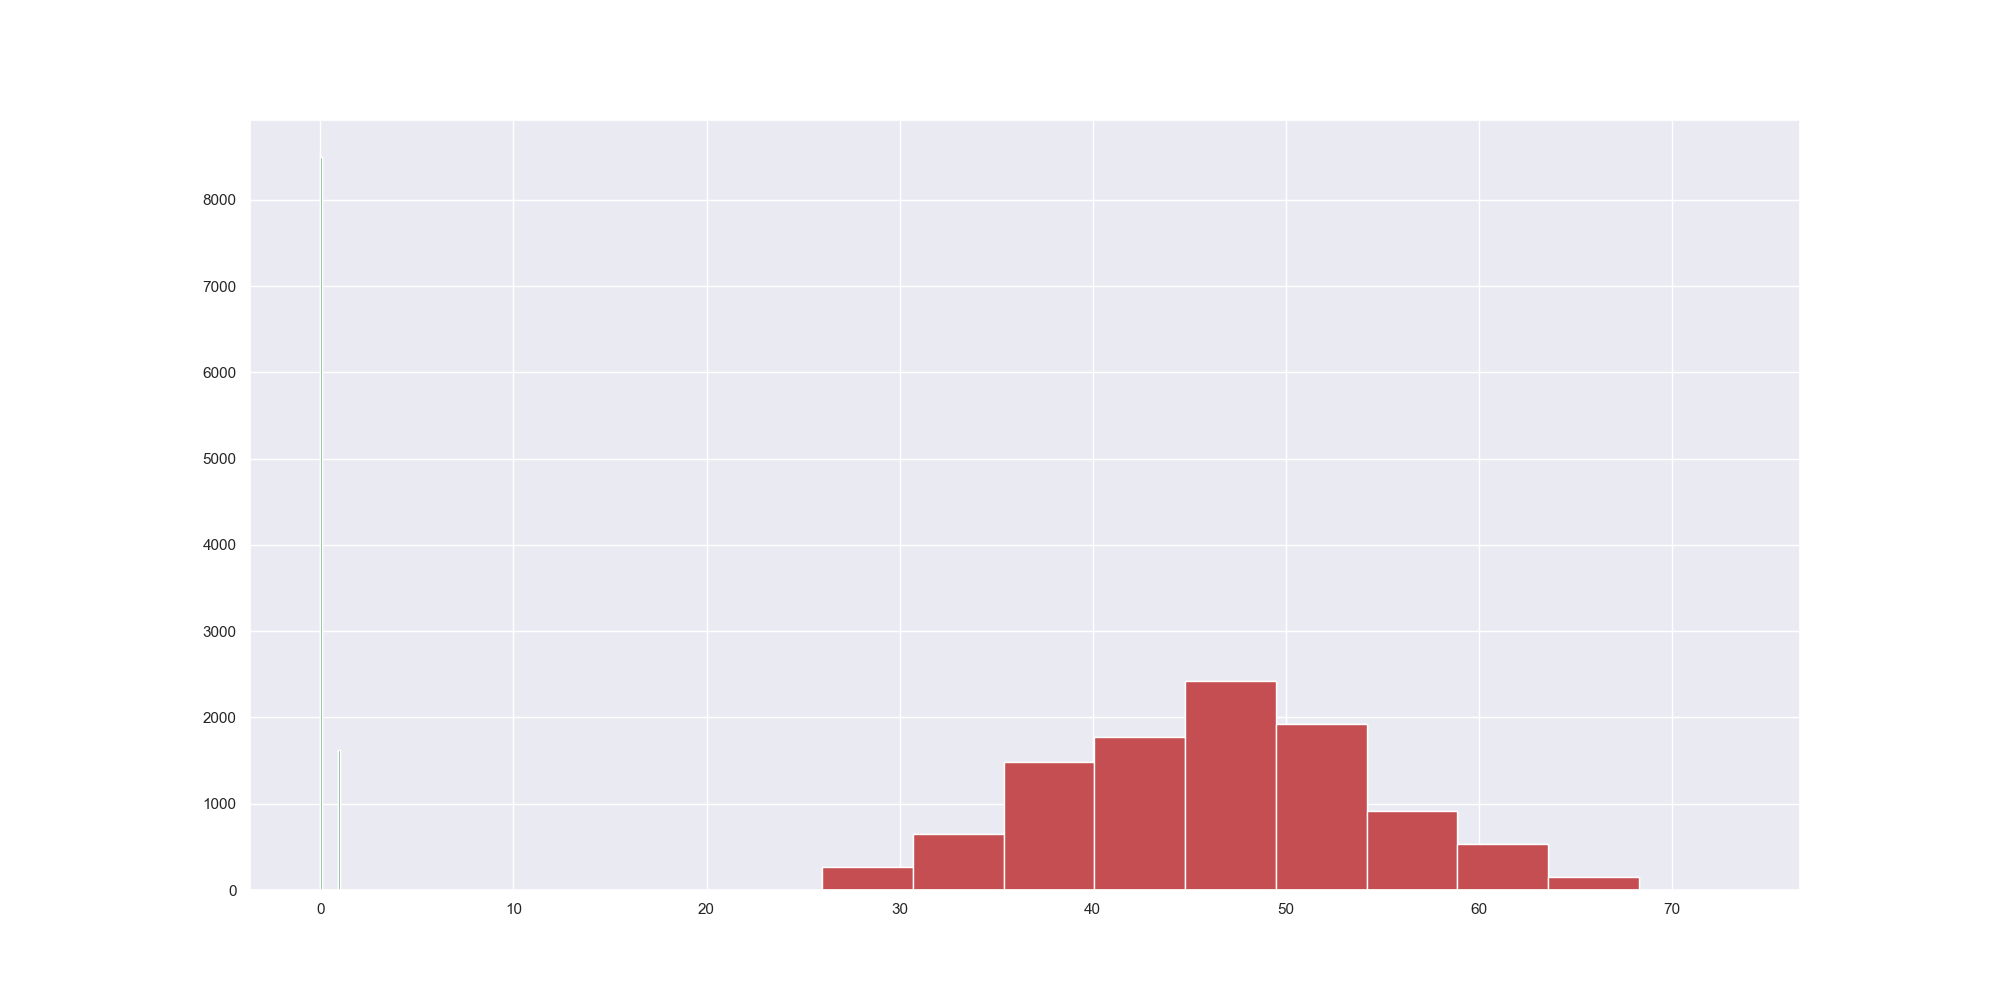
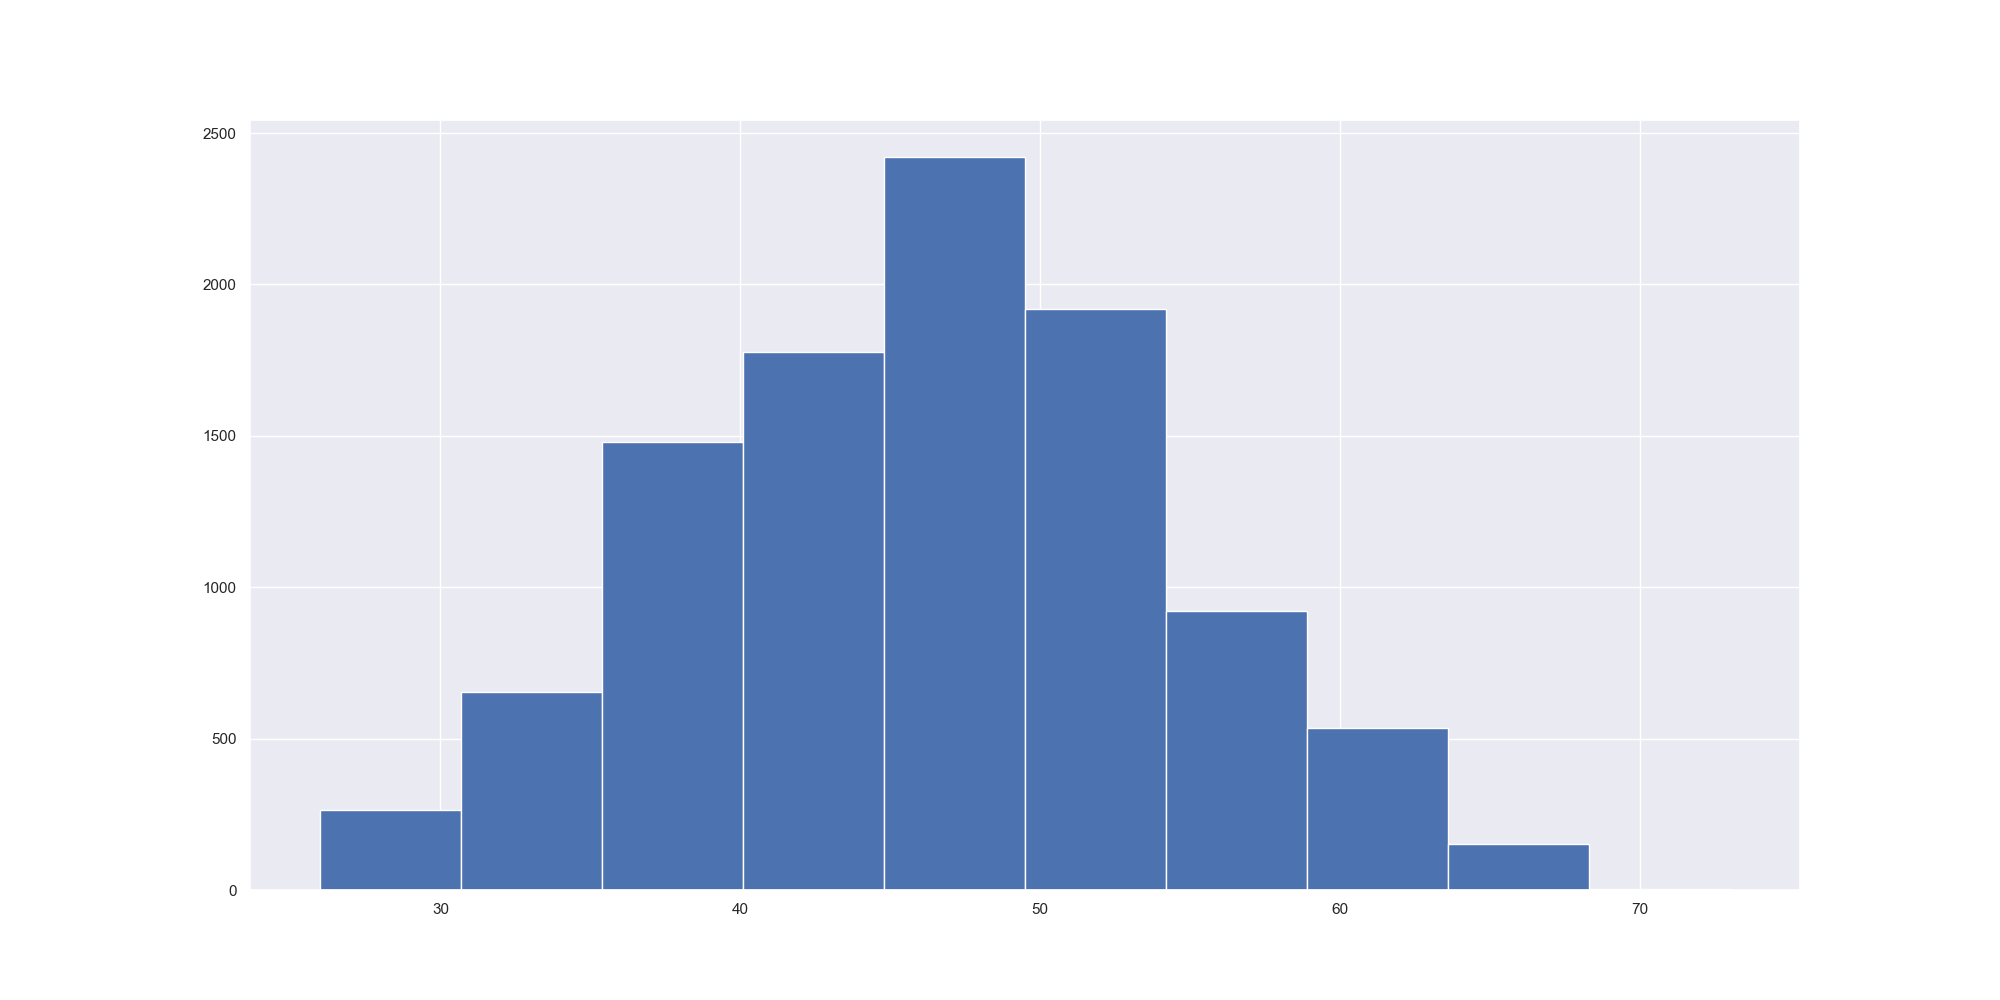
feat: fixed plot overlap issue; added timestamp to logfile.

diff --git a/churn_library.py b/churn_library.py
@@ -14,8 +14,8 @@ Date: 10.12.2022
 # import libraries
 import os
 import logging
+import time
 import seaborn as sns
-from sklearn import metrics
 from sklearn.metrics import classification_report, plot_roc_curve
 from sklearn.model_selection import GridSearchCV
 from sklearn.ensemble import RandomForestClassifier
@@ -33,7 +33,7 @@ sns.set()
 
 
 logging.basicConfig(
-    filename='./logs/churn_library.log',
+    filename=f"./logs/churn_library_{time.strftime('%b_%d_%Y_%H_%M_%S')}.log",
     level=logging.INFO,
     filemode='w',
     format='%(name)s - %(levelname)s - %(message)s'
@@ -108,6 +108,7 @@ def generate_hist_plot(column, pth):
     column.hist()
     # save churn hist plot in ./images/eda
     plt.savefig(pth)
+    plt.close()
 
 
 def perform_eda(df):
@@ -140,12 +141,14 @@ def perform_eda(df):
     plt.figure('Figure 5', figsize=(10, 8))
     df['Marital_Status'].value_counts('normalize').plot(kind='bar')
     plt.savefig('./images/eda/marital_status_barchart.png')
+    plt.close()
 
     # Show distributions of 'Total_Trans_Ct' and add a smooth curve obtained
     # using a kernel density estimate
     plt.figure('Figure 6', figsize=(10, 8))
     sns.histplot(df['Total_Trans_Ct'], stat='density', kde=True)
     plt.savefig('./images/eda/total_trans_ct_histplot.png')
+    plt.close()
 
     # generate heatmap correlation plot
     plt.figure('Figure 7', figsize=(10, 8))
@@ -156,6 +159,7 @@ def perform_eda(df):
         cmap='Dark2_r',
         linewidths=2)
     plt.savefig('./images/eda/correlation_plot.png')
+    plt.close()
 
 
 def encoder_helper(df, category_lst, response):
@@ -261,6 +265,7 @@ def classification_report_image(y_train,
     returns:
         - None
     '''
+    plt.figure('Figure 16')
     plt.rc('figure', figsize=(10, 8))
     # plt.text(0.01, 0.05, str(model.summary()), {'fontsize': 12}) old approach
     plt.text(0.01, 1.25, str('Random Forest Train'), {
@@ -274,7 +279,9 @@ def classification_report_image(y_train,
     plt.axis('off')
     # save plot
     plt.savefig(f'{output_pth}random_forrest_classification_report.png')
+    plt.close()
 
+    plt.figure('Figure 16')
     plt.rc('figure', figsize=(10, 8))
     plt.text(0.01, 1.25, str('Logistic Regression Train'),
              {'fontsize': 10}, fontproperties='monospace')
@@ -287,6 +294,7 @@ def classification_report_image(y_train,
     plt.axis('off')
     # save plot
     plt.savefig(f'{output_pth}logistic_regression_classification_report.png')
+    plt.close()
 
 
 def feature_importance_plot(model, X_data, output_pth):
@@ -308,6 +316,7 @@ def feature_importance_plot(model, X_data, output_pth):
     shap.summary_plot(shap_values, X_data, plot_type="bar", show=False)
     # save plot
     plt.savefig(f'{output_pth}shap_summary.png')
+    plt.close()
 
     # Calculate feature importances
     importances = model.feature_importances_
@@ -333,6 +342,7 @@ def feature_importance_plot(model, X_data, output_pth):
 
     # save plot
     plt.savefig(f'{output_pth}feature_importance.png')
+    plt.close()
 
 
 def train_models(X_train, X_test, y_train, y_test):
@@ -375,12 +385,13 @@ def train_models(X_train, X_test, y_train, y_test):
     # plot for AUC
     # store roc curve with score
     lrc_plot = plot_roc_curve(lrc, X_test, y_test)
-    plt.figure('Figure 3', figsize=(15, 8))
+    plt.figure('Figure 90', figsize=(15, 8))
     axis = plt.gca()
     _ = plot_roc_curve(cv_rfc.best_estimator_,
                        X_test, y_test, ax=axis, alpha=0.8)
     lrc_plot.plot(ax=axis, alpha=0.8)
     plt.savefig('./images/results/roc_curve_plot.png')
+    plt.close()
 
     # save best model
     joblib.dump(cv_rfc.best_estimator_, './models/rfc_model.pkl')

diff --git a/churn_script_logging_and_tests.py b/churn_script_logging_and_tests.py
@@ -12,12 +12,13 @@ Date: 10.12.2022
 
 import os
 import logging
+import time
 import pandas as pd
 import churn_library as cls
 
 
 logging.basicConfig(
-    filename='./logs/churn_library.log',
+    filename=f"./logs/churn_library_{time.strftime('%b_%d_%Y_%H_%M_%S')}.log",
     level=logging.INFO,
     filemode='w',
     format='%(name)s - %(levelname)s - %(message)s')
